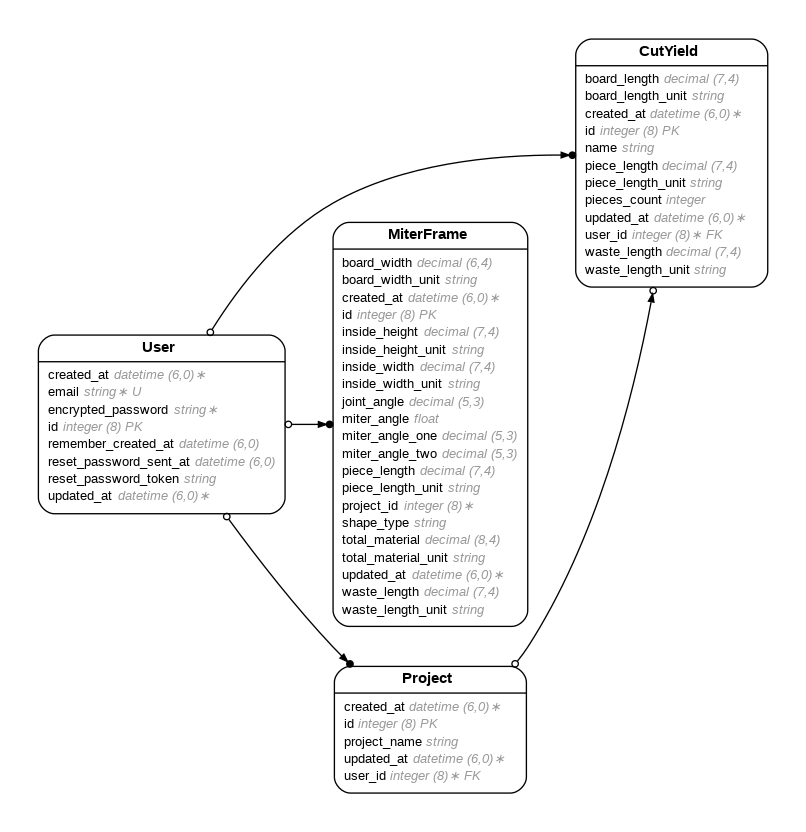
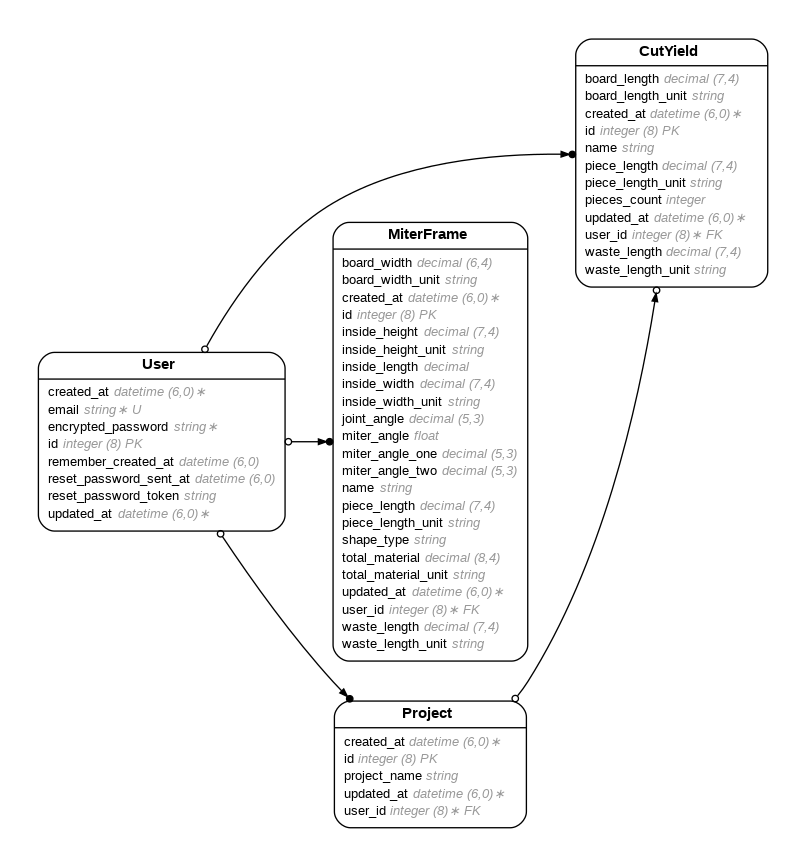
Have to make index page for all miter frames

diff --git a/app/assets/stylesheets/application.css b/app/assets/stylesheets/application.css
@@ -51,6 +51,12 @@ form#miter-frame-form div{
   align-items: center;
 }
 
+.cut-yields-container {
+  max-height: 500px;
+  overflow-y: auto;
+  background-color: #f0f0f0;
+}
+
 footer {
   background-color: cornflowerblue;
 }

diff --git a/app/controllers/miter_frames_controller.rb b/app/controllers/miter_frames_controller.rb
@@ -3,8 +3,7 @@ class MiterFramesController < ApplicationController
 
   # GET /miter_frames or /miter_frames.json
   def index
-    @miter_frames = MiterFrame.all
-    @miter_frame = MiterFrame.new
+    @miter_frames = current_user.miter_frames.order(created_at: :desc)
   end
 
   # GET /miter_frames/1 or /miter_frames/1.json
@@ -22,16 +21,12 @@ class MiterFramesController < ApplicationController
 
   # POST /miter_frames or /miter_frames.json
   def create
-    @miter_frame = MiterFrame.new(miter_frame_params)
+    @miter_frame = current_user.miter_frames.new(miter_frame_params)
 
-    respond_to do |format|
-      if @miter_frame.save
-        format.html { redirect_to @miter_frame, notice: "Miter frame was successfully created." }
-        format.json { render :show, status: :created, location: @miter_frame }
-      else
-        format.html { render :new, status: :unprocessable_entity }
-        format.json { render json: @miter_frame.errors, status: :unprocessable_entity }
-      end
+    if @miter_frame.save
+      redirect_to miter_frames_path, notice: "Miter frame added successfully"
+    else
+      render :new, status: :unprocessable_entity
     end
   end
 
@@ -63,22 +58,18 @@ class MiterFramesController < ApplicationController
   # Only allow a list of trusted parameters through.
   def miter_frame_params
     params.require(:miter_frame).permit(
-      :inside_width,
-      :inside_width_unit,
-      :inside_height,
-      :inside_height_unit,
-      :board_width,
-      :board_width_unit,
-      :joint_angle,
-      :miter_angle_one,
-      :miter_angle_two,
-      :piece_length,
-      :piece_length_unit,
-      :total_material,
-      :total_material_unit,
-      :waste_length,
-      :waste_length_unit,
-      :project_id
+      :name,
+      :shape_type,
+      :inside_length_whole,
+      :inside_length_numerator,
+      :inside_length_denominator,
+      :outside_length_whole,
+      :outside_length_numerator,
+      :outside_length_denominator,
+      :board_width_whole,
+      :board_width_numerator,
+      :board_width_denominator,
+      :miter_angle
     )
   end
 end

diff --git a/db/schema.rb b/db/schema.rb
@@ -10,7 +10,7 @@
 #
 # It's strongly recommended that you check this file into your version control system.
 
-ActiveRecord::Schema[8.0].define(version: 2025_09_16_064530) do
+ActiveRecord::Schema[8.0].define(version: 2025_09_16_201255) do
   # These are extensions that must be enabled in order to support this database
   enable_extension "pg_catalog.plpgsql"
 
@@ -45,12 +45,14 @@ ActiveRecord::Schema[8.0].define(version: 2025_09_16_064530) do
     t.string "total_material_unit"
     t.decimal "waste_length", precision: 7, scale: 4
     t.string "waste_length_unit"
-    t.bigint "project_id", null: false
     t.datetime "created_at", null: false
     t.datetime "updated_at", null: false
     t.string "shape_type"
     t.float "miter_angle"
-    t.index ["project_id"], name: "index_miter_frames_on_project_id"
+    t.bigint "user_id", null: false
+    t.decimal "inside_length"
+    t.string "name"
+    t.index ["user_id"], name: "index_miter_frames_on_user_id"
   end
 
   create_table "projects", force: :cascade do |t|
@@ -216,7 +218,7 @@ ActiveRecord::Schema[8.0].define(version: 2025_09_16_064530) do
   end
 
   add_foreign_key "cut_yields", "users"
-  add_foreign_key "miter_frames", "projects"
+  add_foreign_key "miter_frames", "users"
   add_foreign_key "projects", "users"
   add_foreign_key "solid_queue_blocked_executions", "solid_queue_jobs", column: "job_id", on_delete: :cascade
   add_foreign_key "solid_queue_claimed_executions", "solid_queue_jobs", column: "job_id", on_delete: :cascade

diff --git a/app/models/miter_frame.rb b/app/models/miter_frame.rb
@@ -7,12 +7,14 @@
 #  board_width_unit    :string
 #  inside_height       :decimal(7, 4)
 #  inside_height_unit  :string
+#  inside_length       :decimal(, )
 #  inside_width        :decimal(7, 4)
 #  inside_width_unit   :string
 #  joint_angle         :decimal(5, 3)
 #  miter_angle         :float
 #  miter_angle_one     :decimal(5, 3)
 #  miter_angle_two     :decimal(5, 3)
+#  name                :string
 #  piece_length        :decimal(7, 4)
 #  piece_length_unit   :string
 #  shape_type          :string
@@ -22,15 +24,15 @@
 #  waste_length_unit   :string
 #  created_at          :datetime         not null
 #  updated_at          :datetime         not null
-#  project_id          :bigint           not null
+#  user_id             :bigint           not null
 #
 # Indexes
 #
-#  index_miter_frames_on_project_id  (project_id)
+#  index_miter_frames_on_user_id  (user_id)
 #
 # Foreign Keys
 #
-#  fk_rails_...  (project_id => projects.id)
+#  fk_rails_...  (user_id => users.id)
 #
 class MiterFrame < ApplicationRecord
   belongs_to :user

diff --git a/config/routes.rb b/config/routes.rb
@@ -3,13 +3,13 @@ Rails.application.routes.draw do
   get "home/index"
   root to: "home#index"
 
-  resources :cut_yields, only: [:index, :new, :create] do
+  resources :cut_yields, only: [:show , :index, :new, :create] do
     collection do
       post :calculate
     end
   end
 
-  resources :miter_frames, only: [:create] do
+  resources :miter_frames, only: [:index, :new, :create] do
     collection do
       post :calculate
     end

diff --git a/app/controllers/cut_yields_controller.rb b/app/controllers/cut_yields_controller.rb
@@ -3,12 +3,12 @@ class CutYieldsController < ApplicationController
 
   # GET /cut_yields or /cut_yields.json
   def index
-    @cut_yield = CutYield.new
-    @cut_yields = current_user.cut_yields
+    @cut_yields = current_user.cut_yields.order(created_at: :desc)
   end
 
   # GET /cut_yields/1 or /cut_yields/1.json
   def show
+    @cut_yield = current_user.cut_yield.find(params[:id])
   end
 
   # GET /cut_yields/new

diff --git a/db/migrate/20250916200319_add_user_to_miter_frames.rb b/db/migrate/20250916200319_add_user_to_miter_frames.rb
@@ -1,0 +1,5 @@
+class AddUserToMiterFrames < ActiveRecord::Migration[8.0]
+  def change
+    add_reference :miter_frames, :user, null: false, foreign_key: true
+  end
+end

diff --git a/db/migrate/20250916201025_remove_project_id_from_miter_frames.rb b/db/migrate/20250916201025_remove_project_id_from_miter_frames.rb
@@ -1,0 +1,5 @@
+class RemoveProjectIdFromMiterFrames < ActiveRecord::Migration[8.0]
+  def change
+    remove_column :miter_frames, :project_id, :bigint
+  end
+end

diff --git a/db/migrate/20250916200652_add_inside_length_to_miter_frames.rb b/db/migrate/20250916200652_add_inside_length_to_miter_frames.rb
@@ -1,0 +1,5 @@
+class AddInsideLengthToMiterFrames < ActiveRecord::Migration[8.0]
+  def change
+    add_column :miter_frames, :inside_length, :decimal
+  end
+end

diff --git a/db/migrate/20250916201255_add_name_to_miter_frames.rb b/db/migrate/20250916201255_add_name_to_miter_frames.rb
@@ -1,0 +1,5 @@
+class AddNameToMiterFrames < ActiveRecord::Migration[8.0]
+  def change
+    add_column :miter_frames, :name, :string
+  end
+end
